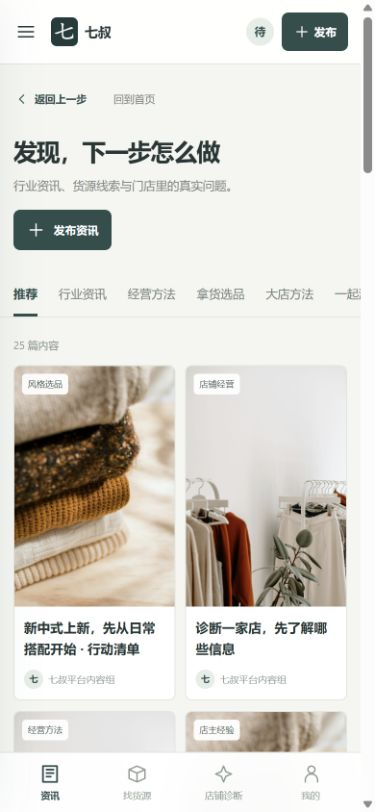
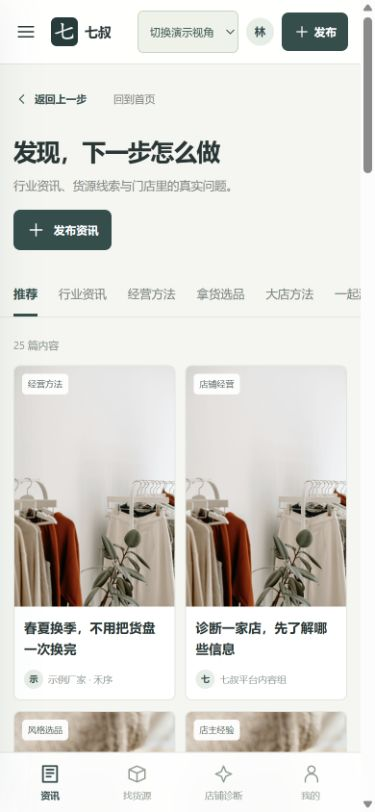
Add explicit front and backstage demo switching

Changed region(s): [[0.0293, 0.431, 0.4693, 0.9544], [0.352, 0.0, 0.6453, 0.0616], [0.6747, 0.0308, 0.704, 0.0616]]

diff --git a/apps/web/app.js b/apps/web/app.js
@@ -1,7 +1,8 @@
 import { state, refresh, saveFont, isSupplier, labels } from './core/state.js';
+import { post } from './core/api.js';
 import { route, beginRoute, back } from './core/navigation.js';
 import { icon } from './components/icons.js';
-import { esc, avatar, errorBlock, empty, closeModal } from './components/ui.js';
+import { esc, avatar, errorBlock, empty, closeModal, toast } from './components/ui.js';
 import { visibleAdminMenus } from './core/menus.js';
 // Page modules load independently so a failed optional module cannot stop the shell.
 const lazyPage = (path) =>
@@ -25,6 +26,32 @@ import { renderPlacements } from './components/ads.js';
 const app = document.querySelector('#app');
 let cleanup,
   renderVersion = 0;
+const demoViews = {
+  owner: { role: 'owner', path: '/info' },
+  supplier: { role: 'supplier', path: '/info' },
+  manufacturer: { role: 'supplier', path: '/manufacturer' },
+  admin: { role: 'admin', path: '/admin' },
+  unverified: { role: 'owner', userId: 'owner-guest', path: '/info' },
+  guest: { path: '/info' }
+};
+async function switchDemoView(value) {
+  if (state.mode !== 'development-demo') throw new Error('仅开发演示环境可切换视角。');
+  const view = demoViews[value];
+  if (!view) throw new Error('请选择有效的演示视角。');
+  if (view.role) {
+    await post('/auth/demo', { role: view.role, ...(view.userId ? { userId: view.userId } : {}) });
+  } else {
+    await post('/auth/logout', {});
+  }
+  await refresh();
+  if (location.hash === '#' + view.path) await render(false);
+  else location.hash = view.path;
+}
+function demoViewControl() {
+  return state.mode === 'development-demo'
+    ? `<select class="demo-view-switch" id="demo-view-switch" aria-label="切换演示视角"><option value="" selected disabled>切换演示视角</option><option value="owner">店主前台</option><option value="supplier">厂家前台</option><option value="manufacturer">厂家经营后台</option><option value="admin">平台运营后台</option><option value="unverified">未认证店主</option><option value="guest">游客</option></select>`
+    : '';
+}
 const navItems = () =>
   isSupplier()
     ? [
@@ -83,7 +110,7 @@ function shell(ctx) {
       )
       .join('');
   const u = state.user;
-  return `<div class="app-shell ${mode}"><div class="drawer-scrim" id="drawer-scrim"></div><aside class="sidebar">${brand()}<div class="side-intro">${adminMode ? '平台运营管理' : manufacturerMode ? '厂家经营管理' : '经验 · 货源 · 经营判断'}</div><nav class="side-nav">${links}</nav>${!adminMode && !manufacturerMode ? `<div class="nav-section-label">我的工作空间</div><nav class="side-nav workspace-nav"><a class="nav-item ${ctx.path === '/creator' ? 'active' : ''}" href="#/creator">${icon('edit')}<span>创作中心</span></a><a class="nav-item" href="#/leads">${icon('message')}<span>联系与回访</span></a>${isSupplier() ? `<a class="nav-item" href="#/manufacturer">${icon('chart')}<span>厂家经营后台</span></a>` : ''}${u?.role === 'admin' ? `<a class="nav-item" href="#/admin">${icon('settings')}<span>平台运营后台</span></a>` : ''}</nav>` : ''}<footer class="sidebar-footer"><a href="#${adminMode || manufacturerMode ? '/info' : '/login'}">${icon(adminMode || manufacturerMode ? 'back' : 'shield')}${adminMode || manufacturerMode ? '回到用户端' : '开发体验入口'}</a><small>开发预览 · 独立测试数据</small></footer></aside><div class="main-shell"><header class="topbar"><button class="icon-button mobile-menu" id="mobile-menu" aria-label="打开导航">${icon('menu')}</button><a class="mobile-brand" href="#/info"><span class="brand-mark">七</span><strong>${adminMode ? '运营后台' : '七叔'}</strong></a><form id="global-search" class="global-search">${icon('search')}<input name="query" placeholder="${adminMode ? '浏览当前管理模块' : isSupplier() ? '搜索货源、资讯或店主需求' : '搜索货源、经验和经营方法'}" aria-label="全站搜索" value="${esc(ctx.query.get('query') || ctx.query.get('q') || '')}"></form><div class="topbar-actions"><span class="preview-label">开发预览</span>${u ? `<a class="account-link" href="#/my">${avatar(u.name)}<span>${esc(labels[u.role] || '我的')}</span></a>` : '<a class="text-link login-link" href="#/login">登录演示</a>'}${!adminMode ? `<a class="btn primary top-publish" href="#/publish?kind=${isSupplier() ? 'product' : 'content'}">${icon('plus')}<span>发布</span></a>` : ''}</div></header><main class="page-content" id="page-content"><div class="navigation-line"><button class="text-button" data-back>${icon('back')}返回上一步</button><a href="#${adminMode ? '/admin' : '/info'}">${adminMode ? '运营总览' : '回到首页'}</a><span class="navigation-context">${adminMode ? (Array.isArray(u?.permissions) && !u.permissions.includes('*') ? '按账号授权管理' : '平台最高管理权限') : manufacturerMode ? '厂家经营工作空间' : '开发演示 · 样例资料'}</span></div><div id="page-view"><div class="loading-state"><span></span>正在载入这个模块…</div></div></main></div>${
+  return `<div class="app-shell ${mode}"><div class="drawer-scrim" id="drawer-scrim"></div><aside class="sidebar">${brand()}<div class="side-intro">${adminMode ? '平台运营管理' : manufacturerMode ? '厂家经营管理' : '经验 · 货源 · 经营判断'}</div><nav class="side-nav">${links}</nav>${!adminMode && !manufacturerMode ? `<div class="nav-section-label">我的工作空间</div><nav class="side-nav workspace-nav"><a class="nav-item ${ctx.path === '/creator' ? 'active' : ''}" href="#/creator">${icon('edit')}<span>创作中心</span></a><a class="nav-item" href="#/leads">${icon('message')}<span>联系与回访</span></a>${isSupplier() ? `<a class="nav-item" href="#/manufacturer">${icon('chart')}<span>厂家经营后台</span></a>` : ''}${u?.role === 'admin' ? `<a class="nav-item" href="#/admin">${icon('settings')}<span>平台运营后台</span></a>` : ''}</nav>` : ''}<footer class="sidebar-footer"><a href="#${adminMode || manufacturerMode ? '/info' : '/login'}">${icon(adminMode || manufacturerMode ? 'back' : 'shield')}${adminMode || manufacturerMode ? '回到用户端' : '开发体验入口'}</a><small>开发预览 · 独立测试数据</small></footer></aside><div class="main-shell"><header class="topbar"><button class="icon-button mobile-menu" id="mobile-menu" aria-label="打开导航">${icon('menu')}</button><a class="mobile-brand" href="#/info"><span class="brand-mark">七</span><strong>${adminMode ? '运营后台' : '七叔'}</strong></a><form id="global-search" class="global-search">${icon('search')}<input name="query" placeholder="${adminMode ? '浏览当前管理模块' : isSupplier() ? '搜索货源、资讯或店主需求' : '搜索货源、经验和经营方法'}" aria-label="全站搜索" value="${esc(ctx.query.get('query') || ctx.query.get('q') || '')}"></form><div class="topbar-actions${state.mode === 'development-demo' ? ' has-demo-switch' : ''}">${demoViewControl()}<span class="preview-label">开发预览</span>${u ? `<a class="account-link" href="#/my">${avatar(u.name)}<span>${esc(labels[u.role] || '我的')}</span></a>` : '<a class="text-link login-link" href="#/login">登录演示</a>'}${!adminMode ? `<a class="btn primary top-publish" href="#/publish?kind=${isSupplier() ? 'product' : 'content'}">${icon('plus')}<span>发布</span></a>` : ''}</div></header><main class="page-content" id="page-content"><div class="navigation-line"><button class="text-button" data-back>${icon('back')}返回上一步</button><a href="#${adminMode ? '/admin' : '/info'}">${adminMode ? '运营总览' : '回到首页'}</a><span class="navigation-context">${adminMode ? (Array.isArray(u?.permissions) && !u.permissions.includes('*') ? '按账号授权管理' : '平台最高管理权限') : manufacturerMode ? '厂家经营工作空间' : '开发演示 · 样例资料'}</span></div><div id="page-view"><div class="loading-state"><span></span>正在载入这个模块…</div></div></main></div>${
     !adminMode && !manufacturerMode
       ? `<nav class="bottom-nav" aria-label="主要导航">${navItems()
           .map(
@@ -236,6 +263,22 @@ async function render(restore = true) {
   const ctx = route(),
     restoreScroll = restore ? beginRoute() : () => {};
   app.innerHTML = shell(ctx);
+  const demoSwitch = app.querySelector('#demo-view-switch');
+  if (demoSwitch) {
+    demoSwitch.onchange = async () => {
+      const value = demoSwitch.value;
+      demoSwitch.value = '';
+      demoSwitch.disabled = true;
+      try {
+        await switchDemoView(value);
+      } catch (error) {
+        toast(error.message);
+      } finally {
+        demoSwitch.value = '';
+        demoSwitch.disabled = false;
+      }
+    };
+  }
   app
     .querySelector('#mobile-menu')
     ?.addEventListener('click', () => document.querySelector('.app-shell').classList.toggle('drawer-open'));

diff --git a/apps/web/pages/workspace.js b/apps/web/pages/workspace.js
@@ -18,45 +18,41 @@ import {
   certificationPrecheck
 } from '../components/ui.js';
 
-export async function login() {
+export async function login(ctx = {}) {
+  const entry = ctx.query?.get('entry') || '';
+  const front = [
+    ['owner', 'user', '店主前台', '看资讯、找货源、诊断门店', '', '/info'],
+    ['supplier', 'box', '厂家前台', '看资讯、货源广场、找客户', '', '/info'],
+    ['owner', 'shield', '未认证店主', '查看审核前后的信息权限', 'owner-guest', '/info'],
+    ['guest', 'user', '游客浏览', '退出演示账号，查看公开信息', '', '/info']
+  ];
+  const backstage = [
+    ['supplier', 'chart', '厂家经营后台', '管理货源、订货会、内容与回访', '', '/manufacturer'],
+    ['admin', 'settings', '平台运营后台', '审核、内容、权益、模型与配置', '', '/admin']
+  ];
+  const views = entry === 'back' ? backstage : entry === 'front' ? front : [...front, ...backstage];
+  const demo = state.mode === 'development-demo';
+  const title = entry === 'back' ? '后台演示入口' : entry === 'front' ? '前台演示入口' : '进入开发演示';
   return {
-    html: `<div class="login-layout"><div class="login-story"><span class="brand-mark">七</span><span class="eyebrow">七叔女装行业平台</span><h1>把经验、货源<br>和合适的人连接起来。</h1><p>先了解你的身份，再进入适合的工作空间。</p><div class="login-photo">${img('/assets/boutique-interior.jpg', '女装门店参考照片')}</div></div><section class="panel login-panel"><h2>进入开发演示</h2><p class="muted">这些账号只用于当前测试数据库，不代表真实微信登录或经营资质。</p><div class="login-roles">${[
-      ['owner', 'shield', '未认证店主体验', '提交执照、查看审核前后的权限', 'owner-guest'],
-      ['owner', 'user', '店主体验', '看资讯、找货源、诊断门店'],
-      ['supplier', 'box', '厂家体验', '发布货源、找客户、做回访'],
-      ['admin', 'shield', '平台运营体验', '管理内容、审核、配置与权益']
-    ]
-      .map(
-        ([role, i, title, sub, userId]) =>
-          `<button class="login-role" data-login="${role}" data-user-id="${userId || ''}">${icon(i)}<span><strong>${title}</strong><small>${sub}</small></span>${icon('arrow')}</button>`
-      )
-      .join(
-        ''
-      )}</div><div class="login-divider"><span>正式接入状态</span></div><button class="btn full" id="wechat-login">微信正式登录 · 查看配置状态</button><p class="tiny muted">正式上线需要企业小程序 AppID、微信授权和服务端凭证；开发账号不会绕过生产认证。</p></section></div>`,
+    html: `<div class="login-layout"><div class="login-story"><span class="brand-mark">七</span><span class="eyebrow">七叔女装行业平台</span><h1>把经验、货源<br>和合适的人连接起来。</h1><p>先了解你的身份，再进入适合的工作空间。</p><div class="login-photo">${img('/assets/boutique-interior.jpg', '女装门店参考照片')}</div></div><section class="panel login-panel"><h2>${title}</h2><p class="muted">${demo ? '这些账号仅用于开发演示，不代表真实微信登录或经营资质。' : '当前为正式环境，不开放演示角色切换。'}</p><div class="login-roles">${demo ? views.map(([role, i, label, sub, userId, path]) => `<button class="login-role" data-login="${role}" data-user-id="${userId || ''}" data-route="${path}">${icon(i)}<span><strong>${label}</strong><small>${sub}</small></span>${icon('arrow')}</button>`).join('') : ''}</div>${demo ? '<div class="creator-shortcuts"><a class="btn small" href="#/login?entry=front">前台入口</a><a class="btn small" href="#/login?entry=back">后台入口</a></div>' : ''}<div class="login-divider"><span>正式接入状态</span></div><button class="btn full" id="wechat-login">微信正式登录 · 查看配置状态</button><p class="tiny muted">正式上线需要企业小程序 AppID、微信授权和服务端凭证；开发账号不会绕过生产认证。</p></section></div>`,
     bind(root) {
-      root.querySelectorAll('[data-login]').forEach(
-        (b) =>
-          (b.onclick = () =>
-            submit(b, async () => {
-              await post('/auth/demo', {
-                role: b.dataset.login,
-                ...(b.dataset.userId ? { userId: b.dataset.userId } : {})
-              });
-              await refresh();
-              location.hash =
-                b.dataset.login === 'admin'
-                  ? '/admin'
-                  : state.user?.verified && (state.user.tags || []).length < 4
-                    ? '/tags'
-                    : '/info';
-              window.dispatchEvent(new Event('qishu:refresh'));
-            }))
-      );
-      root.querySelector('#wechat-login').onclick = (e) =>
-        submit(e.currentTarget, async () => {
-          const result = await post('/auth/wechat', {});
-          toast(result.message || '请在微信小程序中发起正式授权。');
+      root.querySelectorAll('[data-login]').forEach((button) => {
+        button.onclick = () => submit(button, async () => {
+          if (state.mode !== 'development-demo') throw new Error('正式环境不开放演示登录。');
+          if (button.dataset.login === 'guest') await post('/auth/logout', {});
+          else await post('/auth/demo', {
+            role: button.dataset.login,
+            ...(button.dataset.userId ? { userId: button.dataset.userId } : {})
+          });
+          await refresh();
+          location.hash = button.dataset.route;
+          window.dispatchEvent(new Event('qishu:refresh'));
         });
+      });
+      root.querySelector('#wechat-login').onclick = (event) => submit(event.currentTarget, async () => {
+        const result = await post('/auth/wechat', {});
+        toast(result.message || '请在微信小程序中发起正式授权。');
+      });
     }
   };
 }

diff --git a/apps/web/styles.css b/apps/web/styles.css
@@ -4916,6 +4916,37 @@ img {
 .table-scroll .cert-precheck summary {
   font-size: 0.72rem;
 }
+.topbar .global-search {
+  min-width: 0;
+}
+.topbar-actions.has-demo-switch {
+  flex-wrap: wrap;
+  justify-content: flex-end;
+  min-width: 0;
+  max-width: 100%;
+  gap: 10px;
+}
+.demo-view-switch {
+  min-width: 0;
+  max-width: 100%;
+  min-height: 44px;
+  padding: 9px 8px;
+  border: 1px solid #c6d4c2;
+  border-radius: 6px;
+  background: #edf3e7;
+  color: var(--brand);
+  font-size: 0.76rem;
+  line-height: 1.5;
+  cursor: pointer;
+}
+@media (max-width: 640px) {
+  .topbar-actions.has-demo-switch {
+    gap: 8px;
+  }
+  .demo-view-switch {
+    font-size: 0.74rem;
+  }
+}
 @media (prefers-reduced-motion: reduce) {
   * {
     animation-duration: 0.01ms !important;

diff --git a/apps/miniprogram/pages/me/index.js b/apps/miniprogram/pages/me/index.js
@@ -1,7 +1,9 @@
 const ui = require('../../services/ui');
+const config = require('../../config');
 Page({
   data: {
     fontPx: 16,
+    demoEnabled: config.demoEnabled === true,
     items: [],
     leads: [],
     quota: null,

diff --git a/docs/VALIDATION.md b/docs/VALIDATION.md
@@ -26,7 +26,7 @@
 
 最终本机回归：52份脚本语法检查通过，43项自动测试全部通过，0失败。覆盖会话、正式环境禁演示、岗位授权及实时撤权、主体隔离、联系方式授权与撤回、额度原子去重、素材发布及私有原件、生产数据初始化、微信HTTP协议、资质OCR工作流、AI协议和降级、双塔训练持久化、资料拆解及压缩安全。
 
-原生源码检查覆盖10页、16份JS、15份JSON、11份WXML及138处事件绑定。16项页面逻辑与真实本地HTTP服务联调通过，覆盖游客限权、两角色、资料、联络、推荐/筛选、创作、故障、大字及返回；微信原生授权、复制、预览等设备API使用桩，不当作真机验证。命令为`node scripts/check.mjs`、`node --test tests/*.test.mjs`、`node apps/miniprogram/tools/check.cjs`与`node apps/miniprogram/tools/smoke.cjs`。
+原生源码检查覆盖10页、16份JS、15份JSON、11份WXML及139处事件绑定。16项页面逻辑与真实本地HTTP服务联调通过，覆盖游客限权、两角色、资料、联络、推荐/筛选、创作、故障、大字及返回；微信原生授权、复制、预览等设备API使用桩，不当作真机验证。命令为`node scripts/check.mjs`、`node --test tests/*.test.mjs`、`node apps/miniprogram/tools/check.cjs`与`node apps/miniprogram/tools/smoke.cjs`。
 
 实际浏览器检查：390×844手机、834×1112平板、1440×1000电脑；大字号下无横向溢出。验证了货源筛选进入详情后返回仍为原产地结果、浏览器返回先关闭编辑弹层、后台上传拆卡修改后真实进入前台，以及关闭货源模块后资讯与导航继续可用。关闭开关测试后已恢复。
 
@@ -59,3 +59,5 @@
 ## 界面留存
 
 [手机双列资讯](screenshots/mobile-info.png) · [平台运营后台](screenshots/admin-overview.png) · [认证预审状态](screenshots/certification.png)
+
+追加演示验收：前台入口#/login?entry=front与后台入口#/login?entry=back已分开，顶部六场景切换实测进入正确角色与页面，390px下切换控件高44px且无横向溢出。店主、厂家账号personalized=true，推荐模块启用；正式模式不显示体验提权入口。

diff --git a/README.md b/README.md
@@ -12,6 +12,11 @@ npm start
 
 服务启动后访问 http://127.0.0.1:4188 。本地数据、上传和密钥存储位于被Git忽略的data目录。请勿把data目录提交仓库或将开发演示当作真实微信认证。
 
+- 前台演示入口：http://127.0.0.1:4188/#/login?entry=front
+- 后台演示入口：http://127.0.0.1:4188/#/login?entry=back
+
+前台切店主或厂家，后台切厂家经营后台或平台运营后台；顶部也可随时切换演示视角。正式模式隐藏这些体验入口。店主和厂家个性化推荐默认开启，保留用户主动关闭的选择。
+
 进入“登录演示”选择未认证店主、认证店主、厂家或平台运营。未认证账号隐藏拿货价、起批及联系方式；认证审核、线下权益开通、内容发布均由后台执行。所有初始商家和资料明确标为示例。
 
 大文件解析另需Python及 `python -m pip install -r packages/ingestion/requirements.txt`；本机启动脚本会优先使用已有Codex运行时。PPTX与ZIP结构处理使用标准库，PDF与图片预览使用所列依赖。完整容量测试脚本另需 `python-pptx==1.0.2`，不会在正常启动时生成测试大文件。
